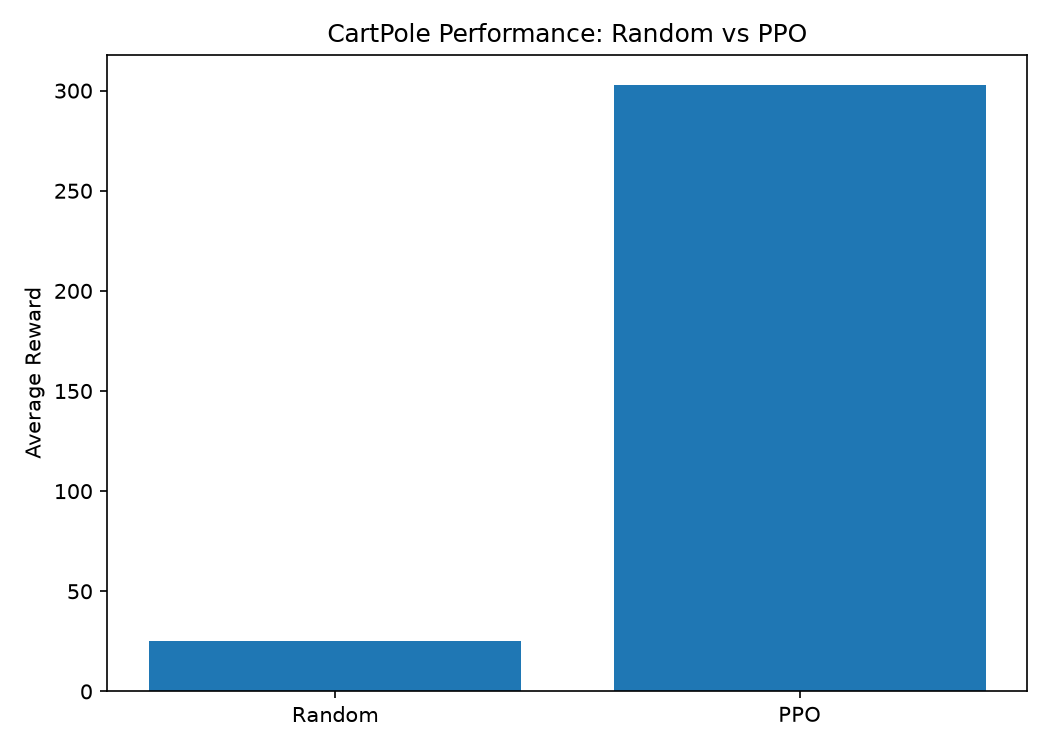
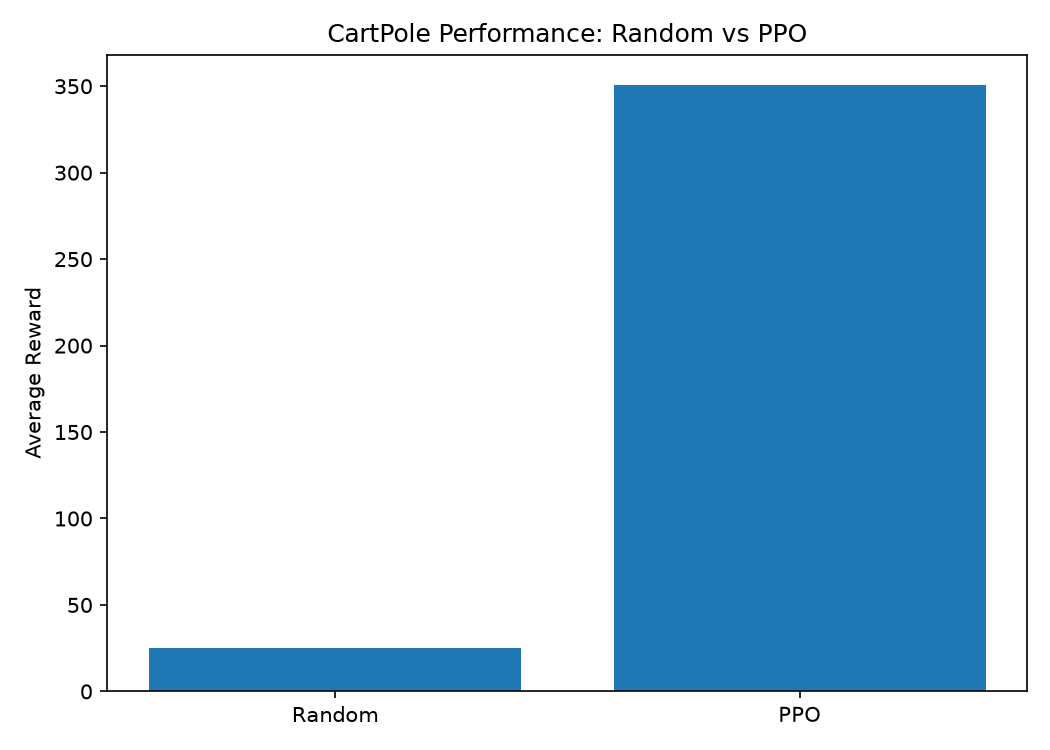
Finalize portfolio documentation and results

diff --git a/results/create_charts.py b/results/create_charts.py
@@ -16,7 +16,7 @@ plt.close()
 
 # CartPole performance comparison
 agents = ["Random", "PPO"]
-rewards = [25.0, 302.9]
+rewards = [25.0, 350.8]
 
 plt.figure(figsize=(7, 5))
 plt.bar(agents, rewards)

diff --git a/README.md b/README.md
@@ -1,6 +1,6 @@
 # ML & Robotics Portfolio
 
-A practical AI/ML learning portfolio progressing from Python fundamentals to machine learning, neural networks, and reinforcement learning, with a long-term focus on robotics research.
+A practical AI/ML learning portfolio progressing from Python fundamentals to machine learning, neural networks, and reinforcement learning, with a long-term focus on AI and robotics research.
 
 ## Projects
 
@@ -18,9 +18,9 @@ Built and compared multiple approaches for handwritten digit classification usin
 
 | Model               | Accuracy |
 | ------------------- | -------: |
-| Logistic Regression |  ~92.57% |
-| Decision Tree       |  ~87.54% |
-| PyTorch MLP         |  ~97.64% |
+| Logistic Regression |   92.57% |
+| Decision Tree       |   87.54% |
+| PyTorch MLP         |   97.64% |
 
 The PyTorch MLP achieved the best performance among the tested models.
 
@@ -38,12 +38,14 @@ Started with reinforcement learning fundamentals using Gymnasium, then trained a
 
 **Evaluation:**
 
+Average reward over 10 evaluation episodes:
+
 | Agent          | Average Reward |
 | -------------- | -------------: |
 | Random Actions |           25.0 |
-| PPO            |          302.9 |
+| PPO            |          350.8 |
 
-The PPO agent achieved substantially higher average reward than the random-action baseline.
+The PPO agent achieved substantially higher average reward than the random-action baseline, with several evaluation episodes reaching the CartPole maximum reward of 500.
 
 ### CartPole Results
 
@@ -59,7 +61,7 @@ The portfolio is organized around three stages:
 
 **Control** → Future robotics projects
 
-The long-term goal is to apply these foundations to robotics, combining machine learning, perception, decision-making, and control.
+The long-term goal is to apply these foundations to robotics by combining machine learning, perception, decision-making, and control.
 
 ## Tech Stack
 
@@ -78,6 +80,7 @@ The long-term goal is to apply these foundations to robotics, combining machine 
 
 ```text
 ml-robotics-portfolio/
+
 ├── week1/
 │   └── day1_variables.py
 ├── week2/
@@ -97,6 +100,10 @@ ml-robotics-portfolio/
 │   ├── ppo_cartpole.py
 │   ├── ppo_cartpole_test.py
 │   └── ppo_cartpole.zip
+├── results/
+│   ├── cartpole_performance.png
+│   ├── create_charts.py
+│   └── mnist_model_comparison.png
 ├── requirements.txt
 └── README.md
 ```
@@ -107,7 +114,9 @@ Clone the repository and create a virtual environment:
 
 ```bash
 git clone https://github.com/bless15/ml-robotics-portfolio.git
+
 cd ml-robotics-portfolio
+
 python -m venv .venv
 ```
 
